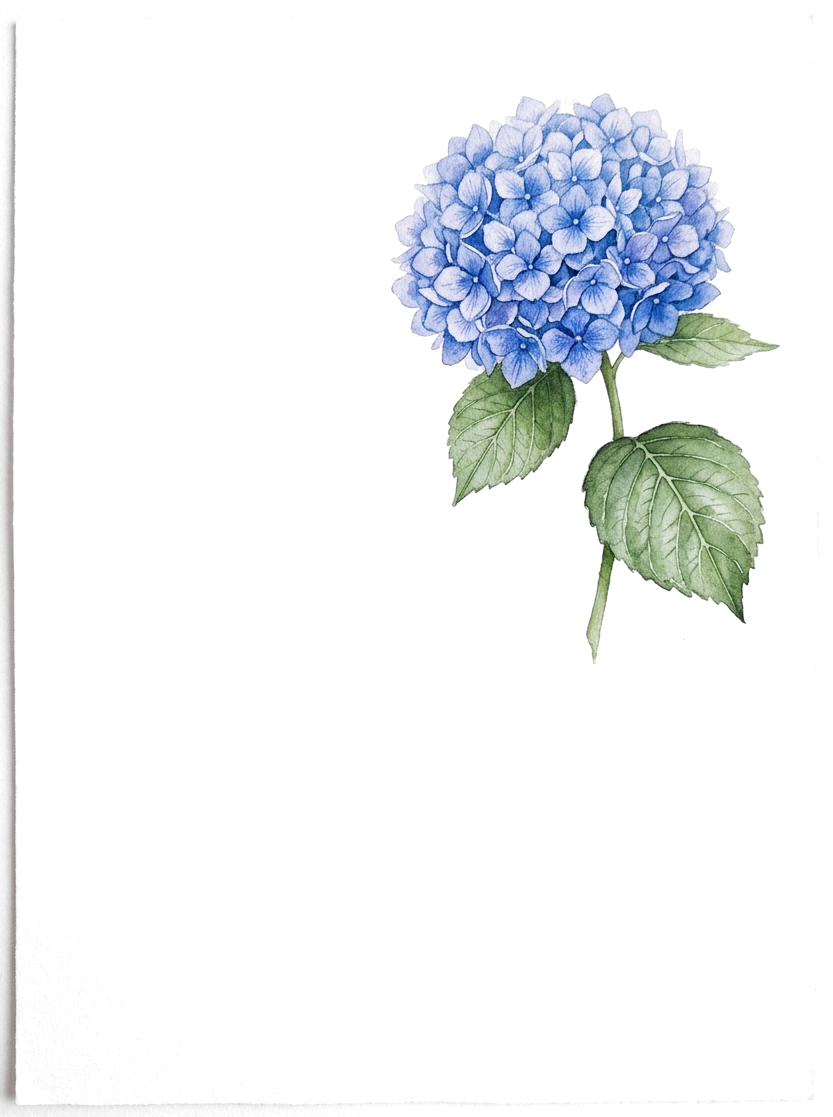
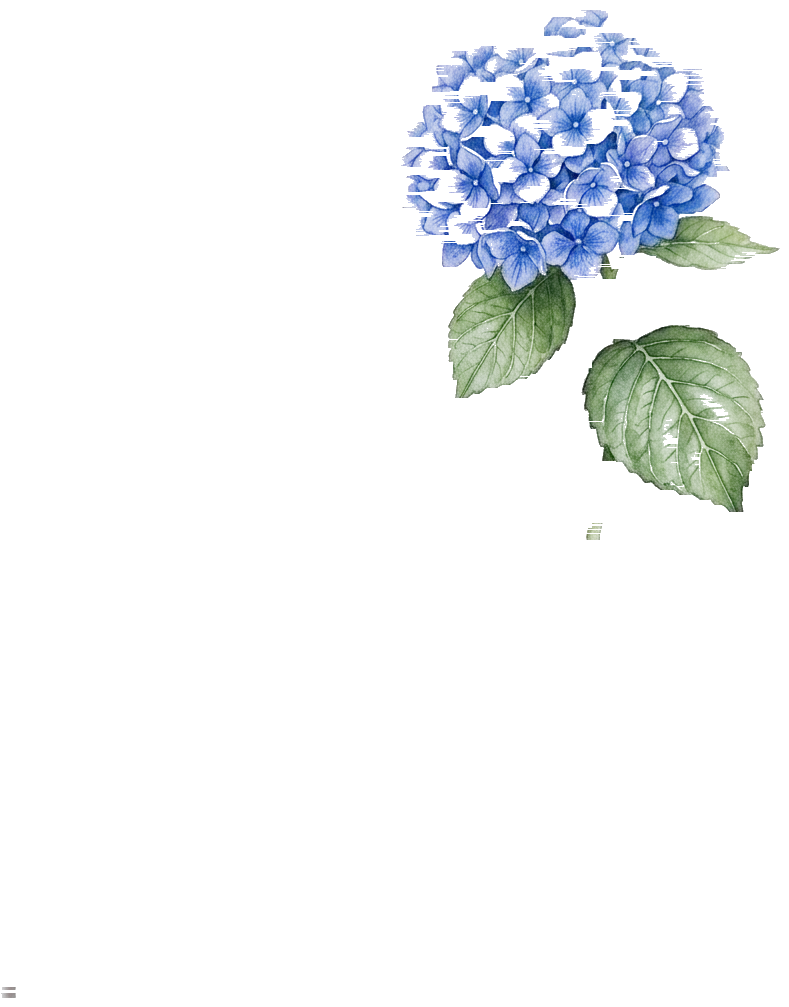
feat: 보태니컬 그림을 상단 전용 띠에 배치해 카드와 겹치지 않게, 종이 가장자리 잔상 제거
Claude-Session: https://claude.ai/code/session_01N6MLroZ8u8gi3NpJyJ819K

Changed region(s): [[0.4563, 0.0, 0.9734, 0.5849], [0.0, 0.0308, 0.0913, 1.0]]

diff --git a/paperling/design.html b/paperling/design.html
@@ -86,10 +86,14 @@ h1{font-family:var(--display);font-size:1.6rem;margin:0}
 .phone[data-theme="dark"] .scr{--t-bg:#23211d;--t-card:#2c2925;--t-fg:#ebe3d2;--t-mute:#a89f8f;--t-line:#3f3a33;--t-acc:#d4b267;--t-acc-soft:#3a3324;--t-on-acc:#1b1915;
   --t-head:"Noto Serif KR",serif;--t-body:"IBM Plex Sans KR",sans-serif;--t-pattern:none}
 .phone[data-theme="dark"] .photo{filter:brightness(.92)}
-.phone[data-theme="wild"] .scr{--t-bg:#fbfaf4;--t-card:rgba(255,255,255,.78);--t-acc:#6b7f5e;--t-fg:#2f3a2c;--t-mute:#7d8a74;--t-line:#dfe4d6;--t-acc-soft:#e8eee2;--t-on-acc:#fff;--t-head:"Gowun Batang",serif;--t-body:"IBM Plex Sans KR",sans-serif;background-repeat:no-repeat;--t-pattern:url(assets/meadow.webp);background-position:center bottom 44px;background-size:72% auto}
-.phone[data-theme="forest"] .scr{--t-bg:#f6f8f3;--t-card:rgba(255,255,255,.78);--t-acc:#2f5d47;--t-fg:#2f3a2c;--t-mute:#7d8a74;--t-line:#dfe4d6;--t-acc-soft:#e8eee2;--t-on-acc:#fff;--t-head:"Gowun Batang",serif;--t-body:"IBM Plex Sans KR",sans-serif;background-repeat:no-repeat;--t-pattern:url(assets/greens.webp);background-position:left 10px bottom 48px;background-size:46% auto}
-.phone[data-theme="hydrangea"] .scr{--t-bg:#f9fafc;--t-card:rgba(255,255,255,.78);--t-acc:#5b78b4;--t-fg:#2f3a2c;--t-mute:#7d8a74;--t-line:#dfe4d6;--t-acc-soft:#e8eee2;--t-on-acc:#fff;--t-head:"Gowun Batang",serif;--t-body:"IBM Plex Sans KR",sans-serif;background-repeat:no-repeat;--t-pattern:url(assets/hydrangea.webp);background-position:right 10px top 8px;background-size:40% auto}
-.phone[data-theme="lilac"] .scr{--t-bg:#faf8fb;--t-card:rgba(255,255,255,.78);--t-acc:#8a6fa6;--t-fg:#2f3a2c;--t-mute:#7d8a74;--t-line:#dfe4d6;--t-acc-soft:#e8eee2;--t-on-acc:#fff;--t-head:"Gowun Batang",serif;--t-body:"IBM Plex Sans KR",sans-serif;background-repeat:no-repeat;--t-pattern:url(assets/lilac.webp);background-position:left 8px top 6px;background-size:44% auto}
+/* botanical: painting lives in its own band under the top bar; content starts below it */
+.phone[data-theme="wild"] .bd{padding-top:120px}
+.phone[data-theme="forest"] .bd,.phone[data-theme="hydrangea"] .bd,.phone[data-theme="lilac"] .bd{padding-top:140px}
+.phone[data-theme="wild"] .scr,.phone[data-theme="forest"] .scr,.phone[data-theme="hydrangea"] .scr,.phone[data-theme="lilac"] .scr{--t-card:#ffffff}
+.phone[data-theme="wild"] .scr{--t-bg:#fbfaf4;--t-card:rgba(255,255,255,.78);--t-acc:#6b7f5e;--t-fg:#2f3a2c;--t-mute:#7d8a74;--t-line:#dfe4d6;--t-acc-soft:#e8eee2;--t-on-acc:#fff;--t-head:"Gowun Batang",serif;--t-body:"IBM Plex Sans KR",sans-serif;background-repeat:no-repeat;--t-pattern:url(assets/meadow.webp);background-position:center top 48px;background-size:78% auto}
+.phone[data-theme="forest"] .scr{--t-bg:#f6f8f3;--t-card:rgba(255,255,255,.78);--t-acc:#2f5d47;--t-fg:#2f3a2c;--t-mute:#7d8a74;--t-line:#dfe4d6;--t-acc-soft:#e8eee2;--t-on-acc:#fff;--t-head:"Gowun Batang",serif;--t-body:"IBM Plex Sans KR",sans-serif;background-repeat:no-repeat;--t-pattern:url(assets/greens.webp);background-position:center top 46px;background-size:40% auto}
+.phone[data-theme="hydrangea"] .scr{--t-bg:#f9fafc;--t-card:rgba(255,255,255,.78);--t-acc:#5b78b4;--t-fg:#2f3a2c;--t-mute:#7d8a74;--t-line:#dfe4d6;--t-acc-soft:#e8eee2;--t-on-acc:#fff;--t-head:"Gowun Batang",serif;--t-body:"IBM Plex Sans KR",sans-serif;background-repeat:no-repeat;--t-pattern:url(assets/hydrangea.webp);background-position:center top 44px;background-size:34% auto}
+.phone[data-theme="lilac"] .scr{--t-bg:#faf8fb;--t-card:rgba(255,255,255,.78);--t-acc:#8a6fa6;--t-fg:#2f3a2c;--t-mute:#7d8a74;--t-line:#dfe4d6;--t-acc-soft:#e8eee2;--t-on-acc:#fff;--t-head:"Gowun Batang",serif;--t-body:"IBM Plex Sans KR",sans-serif;background-repeat:no-repeat;--t-pattern:url(assets/lilac.webp);background-position:center top 44px;background-size:44% auto}
 .phone[data-theme="blueprint"] .scr{--t-bg:#1f3a5f;--t-card:rgba(255,255,255,.07);--t-fg:#e8eef7;--t-mute:#9db3cf;--t-line:rgba(255,255,255,.22);--t-acc:#f2c14e;--t-acc-soft:rgba(242,193,78,.18);--t-on-acc:#1b2b45;
   --t-head:"IBM Plex Sans KR",sans-serif;--t-body:"IBM Plex Sans KR",sans-serif;
   --t-pattern:repeating-linear-gradient(0deg, rgba(255,255,255,.07) 0 1px, transparent 1px 20px), repeating-linear-gradient(90deg, rgba(255,255,255,.07) 0 1px, transparent 1px 20px)}
@@ -198,7 +202,7 @@ h1{font-family:var(--display);font-size:1.6rem;margin:0}
   <div><b>화이트 노트</b><p>일반 라인 기본. 흰 바탕, 잉크 초록 포인트, 고운바탕 제목. 매일 봐도 안 질리는 쪽.</p></div>
   <div><b>클래식 플래너</b><p>프랭클린 플래너형. 크림 종이, 괘선, 버건디 포인트, 세리프 제목. 50대 신뢰 톤.</p></div>
     <div><b>다크 저널</b><p>밤에 쓰는 분. 숯색 바탕, 황동 포인트, 세리프 제목. 사진은 살짝 어둡게.</p></div>
-  <div><b>들꽃 정원</b><p>보태니컬 라인. 화면 아래에 수채화 들꽃 띠(데이지·민들레·아마꽃). 카드는 반투명 흰색이라 그림이 비친다.</p></div>
+  <div><b>들꽃 정원</b><p>보태니컬 라인. 상단 띠에 수채화 들꽃(데이지·민들레·아마꽃)이 통째로 보이고, 카드는 그 아래부터 시작한다. 그림과 글이 겹치지 않는다.</p></div>
   <div><b>수국</b><p>보태니컬 라인. 오른쪽 위에 파란 수국 한 송이. 포인트 색은 수국 파랑.</p></div>
   <div><b>라일락</b><p>보태니컬 라인. 왼쪽 위에서 늘어진 라일락 가지. 포인트 색은 연보라.</p></div>
   <div><b>초록 숲</b><p>보태니컬 라인. 왼쪽 아래 유칼립투스·고사리 잎 다발. 꽃 없이 초록만, 차분하게 오래 보는 쪽.</p></div>

diff --git a/paperling/index.html b/paperling/index.html
@@ -95,6 +95,7 @@ h2 .lab{font-family:var(--body);font-size:.68rem;font-weight:600;letter-spacing:
   --s-bg:#ffffff;--s-fg:#2a2824;--s-mute:#7a7368;--s-acc:#36655a;--s-line:#e6e0d3;--s-head:var(--display);--s-pattern:none;
   background:var(--s-bg);background-image:var(--s-pattern);color:var(--s-fg)}
 .sample .inner{background:rgba(255,255,255,.72);border-radius:10px;padding:.7rem .8rem}
+.sample.band .inner{margin-top:170px;background:#fff}
 .sample h4{font-family:var(--s-head);font-size:1.1rem;margin:0 0 .4rem;color:var(--s-fg)}
 .sample .date{font-size:.75rem;color:var(--s-mute);letter-spacing:.06em;margin-bottom:.5rem}
 .sample p{font-family:var(--s-hand,var(--hand));font-size:1.35rem;line-height:1.3;margin:0 0 .6rem;color:var(--s-fg)}
@@ -335,10 +336,10 @@ footer{border-top:1px solid var(--line);padding-top:1.2rem;margin-top:2rem;font-
     white:{bg:'#ffffff',fg:'#2a2824',mute:'#7a7368',acc:'#36655a',line:'#e6e0d3',head:"'Gowun Batang', serif",pattern:'none'},
     planner:{bg:'#f8f2e2',fg:'#3a2f24',mute:'#8a7a63',acc:'#8a3b2e',line:'#d7cbb0',head:"'Noto Serif KR', serif",pattern:'repeating-linear-gradient(0deg, transparent 0 27px, rgba(138,59,46,.18) 27px 28px)'},
     dark:{bg:'#23211d',fg:'#ebe3d2',mute:'#a89f8f',acc:'#d4b267',line:'#3f3a33',head:"'Noto Serif KR', serif",pattern:'none'},
-    wild:{bg:'#fbfaf4',acc:'#6b7f5e',fg:'#2f3a2c',mute:'#7d8a74',line:'#dfe4d6',head:"'Gowun Batang', serif",rep:'no-repeat',pattern:'url(assets/meadow.webp)',pos:'center bottom 10px',size:'62% auto'},
-    hydrangea:{bg:'#f9fafc',acc:'#5b78b4',fg:'#2f3a2c',mute:'#7d8a74',line:'#dfe4d6',head:"'Gowun Batang', serif",rep:'no-repeat',pattern:'url(assets/hydrangea.webp)',pos:'right 14px bottom 12px',size:'38% auto'},
-    lilac:{bg:'#faf8fb',acc:'#8a6fa6',fg:'#2f3a2c',mute:'#7d8a74',line:'#dfe4d6',head:"'Gowun Batang', serif",rep:'no-repeat',pattern:'url(assets/lilac.webp)',pos:'left 14px bottom 12px',size:'40% auto'},
-    forest:{bg:'#f6f8f3',acc:'#2f5d47',fg:'#2f3a2c',mute:'#7d8a74',line:'#dfe4d6',head:"'Gowun Batang', serif",rep:'no-repeat',pattern:'url(assets/greens.webp)',pos:'left 14px bottom 12px',size:'40% auto'},
+    wild:{bg:'#fbfaf4',acc:'#6b7f5e',fg:'#2f3a2c',mute:'#7d8a74',line:'#dfe4d6',head:"'Gowun Batang', serif",rep:'no-repeat',pattern:'url(assets/meadow.webp)',pos:'center top 14px',size:'64% auto',band:1},
+    hydrangea:{bg:'#f9fafc',acc:'#5b78b4',fg:'#2f3a2c',mute:'#7d8a74',line:'#dfe4d6',head:"'Gowun Batang', serif",rep:'no-repeat',pattern:'url(assets/hydrangea.webp)',pos:'center top 12px',size:'26% auto',band:1},
+    lilac:{bg:'#faf8fb',acc:'#8a6fa6',fg:'#2f3a2c',mute:'#7d8a74',line:'#dfe4d6',head:"'Gowun Batang', serif",rep:'no-repeat',pattern:'url(assets/lilac.webp)',pos:'center top 12px',size:'38% auto',band:1},
+    forest:{bg:'#f6f8f3',acc:'#2f5d47',fg:'#2f3a2c',mute:'#7d8a74',line:'#dfe4d6',head:"'Gowun Batang', serif",rep:'no-repeat',pattern:'url(assets/greens.webp)',pos:'center top 12px',size:'34% auto',band:1},
     blueprint:{bg:'#1f3a5f',fg:'#e8eef7',mute:'#9db3cf',acc:'#f2c14e',line:'rgba(255,255,255,.22)',head:"'IBM Plex Sans KR', sans-serif",pattern:'repeating-linear-gradient(0deg, rgba(255,255,255,.07) 0 1px, transparent 1px 20px), repeating-linear-gradient(90deg, rgba(255,255,255,.07) 0 1px, transparent 1px 20px)'},
     ledger:{bg:'#f4f1ea',fg:'#1f2a33',mute:'#6f6a60',acc:'#8b5e34',line:'#d3cbbb',head:"'Noto Serif KR', serif",pattern:'linear-gradient(90deg, transparent 0 26px, rgba(139,94,52,.28) 26px 27px, transparent 27px 100%), repeating-linear-gradient(0deg, transparent 0 23px, rgba(31,42,51,.08) 23px 24px)'}
   };
@@ -347,7 +348,7 @@ footer{border-top:1px solid var(--line);padding-top:1.2rem;margin-top:2rem;font-
     document.querySelectorAll('.sw').forEach(function(x){x.setAttribute('aria-pressed','false');}); b.setAttribute('aria-pressed','true');
     var t=themes[b.dataset.theme]; sample.style.setProperty('--s-bg',t.bg); sample.style.setProperty('--s-fg',t.fg); sample.style.setProperty('--s-mute',t.mute);
     sample.style.setProperty('--s-acc',t.acc); sample.style.setProperty('--s-line',t.line); sample.style.setProperty('--s-head',t.head); sample.style.setProperty('--s-pattern',t.pattern);
-    sample.style.backgroundRepeat=t.rep||'repeat'; sample.style.backgroundPosition=t.pos||'0 0'; sample.style.backgroundSize=t.size||'auto';
+    sample.classList.toggle('band',!!t.band); sample.style.backgroundRepeat=t.rep||'repeat'; sample.style.backgroundPosition=t.pos||'0 0'; sample.style.backgroundSize=t.size||'auto';
   });});
   document.querySelectorAll('.fonts button').forEach(function(b){ b.addEventListener('click',function(){
     document.querySelectorAll('.fonts button').forEach(function(x){x.setAttribute('aria-pressed','false');}); b.setAttribute('aria-pressed','true');
